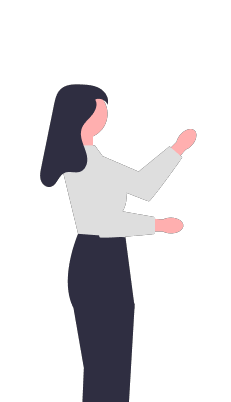
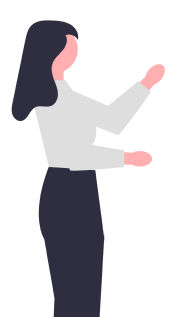
[FIX] 학습하기 CSS 수정

Changed region(s): [[0.0575, 0.0568, 0.9483, 1.0]]

diff --git a/src/Practice/Step1.js b/src/Practice/Step1.js
@@ -13,29 +13,31 @@ function Step1() {
       <ContentsContainer>
         {page === 0 ? (
           <>
-            <CenterContainer>
-              <Bubble>
-                <Info>
-                  카카오 계정이
-                  <Highlight>없다면</Highlight>
-                  이쪽을 선택해주세요!
-                </Info>
-              </Bubble>
-              <Bubble>
-                <Info>
-                  카카오 계정이
-                  <Highlight>있다면</Highlight>
-                  이쪽을 선택해주세요!
-                </Info>
-              </Bubble>
-            </CenterContainer>
-            <CenterContainer>
-              <Icon op="user" />
-              <Icon op="kakao" />
-            </CenterContainer>
-            <CenterContainer>
+            <InfoContainer>
+              <BubbleContainer>
+                <Bubble>
+                  <Info>
+                    카카오 계정이
+                    <Highlight>없다면</Highlight>
+                    이쪽을 선택해주세요!
+                  </Info>
+                </Bubble>
+                <Icon op="user" />
+              </BubbleContainer>
+              <BubbleContainer>
+                <Bubble>
+                  <Info>
+                    카카오 계정이
+                    <Highlight>있다면</Highlight>
+                    이쪽을 선택해주세요!
+                  </Info>
+                </Bubble>
+                <Icon op="kakao" />
+              </BubbleContainer>
+            </InfoContainer>
+            <CharacterContainer>
               <Character />
-            </CenterContainer>
+            </CharacterContainer>
           </>
         ) : page === 1 ? (
           <Explanation
@@ -187,24 +189,27 @@ function Step1() {
 
 const Container = styled.div`
   position: relative;
-  height: 92%;
+  height: 100%;
 `;
 
 const ContentsContainer = styled.div`
   height: 100%;
 `;
 
-const CenterContainer = styled.div`
+const InfoContainer = styled.div`
+  width: 100%;
+  height: 35%;
+
   display: flex;
   justify-content: space-around;
+`;
 
-  padding-top: 3rem;
+const BubbleContainer = styled.div`
+  height: 100%;
+  width: 25%;
 `;
 
 const Bubble = styled.div`
-  width: 17.125rem;
-  height: 9rem;
-
   border-radius: 50%;
   background: #002d61;
   box-shadow: 0px 4px 4px 0px rgba(0, 0, 0, 0.25);
@@ -212,17 +217,34 @@ const Bubble = styled.div`
   display: flex;
   justify-content: center;
   align-items: center;
+
+  height: 80%;
+  width: 100%;
+
+  margin: 0 auto;
+  margin-bottom: 2rem;
+`;
+
+const IconContainer = styled.div`
+  display: flex;
+  justify-content: space-around;
+  align-items: center;
+
+  height: 10%;
 `;
 
 const Icon = styled.div`
-  width: 4.375rem;
-  height: 4.375rem;
+  height: 5rem;
+  width: 5rem;
 
   background-image: ${({ op }) =>
     op === "user"
       ? "url(/images/user_circle.jpg)"
       : "url(/images/kakao_icon.jpg)"};
   background-repeat: no-repeat;
+  background-size: cover;
+
+  margin: 0 auto;
 `;
 
 const Info = styled.div`
@@ -240,12 +262,20 @@ const Highlight = styled.div`
   color: #fbff45;
 `;
 
+const CharacterContainer = styled.div`
+  height: 65%;
+  width: 100%;
+
+  margin: 0 auto;
+`;
+
 const Character = styled.div`
-  width: 42.375rem;
-  height: 23.125rem;
+  height: 100%;
+  width: 100%;
 
   background-image: url("/images/character.png");
   background-repeat: no-repeat;
+  background-size: contain;
 `;
 
 const NextBtn = styled.div`

diff --git a/src/Practice/Explanation.js b/src/Practice/Explanation.js
@@ -14,7 +14,7 @@ function Explanation(props) {
       <ExplainContainer none={props.none}>
         <CenterContainer>
           <TutorContainer opacity={props.opacity}>
-            <BubbleContainer op="1">
+            <BubbleContainer op="1" none={props.none}>
               <InfoContainer op="1">
                 {props.info1}
                 <br /> {props.info2}
@@ -42,8 +42,7 @@ function Explanation(props) {
 }
 
 const Img = styled.img`
-  width: 48rem;
-  height: 30rem;
+  width: 70%;
 
   position: absolute;
 
@@ -54,8 +53,8 @@ const Img = styled.img`
 `;
 
 const ComponentContainer = styled.div`
-  width: 48rem;
-  height: 30rem;
+  width: 50%;
+  height: 70%;
 
   position: absolute;
 
@@ -88,18 +87,19 @@ const ExplainContainer = styled.div`
   bottom: 0;
   z-index: 1;
 
-  width: ${({ none }) => (none === "1" ? "auto" : "100%")};
+  width: ${({ none }) => (none === "1" ? "35%" : "100%")};
+  height: 100%;
 `;
 
 const BubbleContainer = styled.div`
-  width: ${({ op }) => (op === "1" ? " 22rem" : "24rem")};
-  height: ${({ op }) => (op === "1" ? " 12rem" : "15.5rem")};
+  width: ${({ none }) => (none === "1" ? "auto" : "70%")};
+  height: ${({ op }) => (op === "1" ? "30%" : "40%")};
 
   background-image: ${({ op }) =>
     op === "1" ? " url(/images/bubble.png)" : "url(/images/bubble2.png)"};
   background-repeat: no-repeat;
-  background-position: top center;
-  background-size: cover;
+  background-position: center center;
+  background-size: contain;
 
   color: ${({ op }) => (op === "1" ? " #fff" : "#002d61")};
   text-align: center;
@@ -118,26 +118,30 @@ const InfoContainer = styled.div`
 `;
 
 const Tutor = styled.div`
-  width: 15rem;
-  height: 30.40406rem;
+  height: 60%;
 
   background-image: ${({ op }) =>
     op === "1" ? " url(/images/tutor.png)" : "url(/images/tutor2.png)"};
   background-repeat: no-repeat;
+  background-size: contain;
 
   margin-left: ${({ op }) => (op === "1" ? " 0" : "13rem")};
 `;
 
 const CenterContainer = styled.div`
-  width: 100%;
   display: flex;
   justify-content: space-between;
   align-items: end;
+
+  height: 100%;
 `;
 
 const TutorContainer = styled.div`
   display: ${({ none }) => (none === "1" ? "none" : "block")};
   opacity: ${({ opacity }) => (opacity === "1" ? "0.4" : "1")};
+
+  height: 100%;
+  width: 100%;
 `;
 
 export default Explanation;

diff --git a/src/Practice/Log.js b/src/Practice/Log.js
@@ -120,17 +120,17 @@ const Container = styled.div`
 `;
 
 const ItemsContainer = styled.div`
-  height: 87%;
-  width: 80%;
-
-  margin: 0 auto;
-  padding-top: 2rem;
+  height: 100%;
+  width: 100%;
 `;
 
 const StepContainer = styled.div`
+  width: 100%;
+  height: 13%;
+
   display: flex;
 
-  margin-left: ${({ step }) =>
+  /* padding-left: ${({ step }) =>
     step === "0" || step === "4"
       ? "50%"
       : step === "1" || step === "3"
@@ -139,16 +139,17 @@ const StepContainer = styled.div`
       ? "10%"
       : "auto"};
 
-  margin-right: ${({ step }) =>
+  padding-right: ${({ step }) =>
     step === "5" ? "10%" : step === "6" ? "30%" : "auto"};
 
   justify-content: ${({ step }) =>
-    step === "5" || step === "6" ? "right" : "auto"};
+    step === "5" || step === "6" ? "right" : "auto"}; */
+  justify-content: center;
 `;
 
 const Step = styled.div`
-  width: 12.5rem;
-  height: 7.5rem;
+  width: 20%;
+  height: 100%;
 
   color: #002d61;
   display: flex;
@@ -190,6 +191,7 @@ const Info = styled.div`
 `;
 
 const BtnContainer = styled.div`
+  height: 9%;
   display: flex;
   justify-content: right;
 

diff --git a/src/Practice/StatusBar.js b/src/Practice/StatusBar.js
@@ -15,15 +15,15 @@ function StatusBar(props) {
 }
 
 const Container = styled.div`
-  width: 75rem;
+  width: 100%;
   height: 8%;
   display: flex;
-
-  margin: 0 auto;
+  justify-content: center;
 `;
 
 const ItemsContainer = styled.div`
   position: relative;
+  width: 90%;
 `;
 
 const Title = styled.div`
@@ -38,13 +38,13 @@ const Title = styled.div`
 `;
 
 const BarContainer = styled.div`
-  width: 67rem;
+  width: 80%;
   position: relative;
   margin: 0 auto;
 `;
 
 const Bar = styled.div`
-  width: 63rem;
+  width: 98%;
   height: 1.5625rem;
 
   border-radius: 0.9375rem;
@@ -56,7 +56,7 @@ const Bar = styled.div`
 `;
 
 const Status = styled.div`
-  width: ${({ step }) => step * 9}rem;
+  width: ${({ step }) => step * 14}%;
   height: 1.5625rem;
 
   border-radius: 0.9375rem;

diff --git a/src/Practice/Exercise.js b/src/Practice/Exercise.js
@@ -26,22 +26,23 @@ function Exercise() {
 }
 
 const Container = styled.div`
-  padding: 10rem 5% 0 5%;
-  height: 100%;
+  height: 100vh;
+  width: 100vw;
 `;
 
 const ItemsContainer = styled.div`
+  padding-top: 10rem;
   display: flex;
   justify-content: center;
 `;
 
 const ContentsContainer = styled.div`
-  width: 80%;
+  width: 75%;
 `;
 
 const Contents = styled.div`
-  width: 70rem;
-  height: 100%;
+  width: 100%;
+  height: 92%;
 
   margin: 0 auto;
 `;

diff --git a/src/Practice/PracticeMenu.js b/src/Practice/PracticeMenu.js
@@ -150,8 +150,7 @@ function PracticeMenu(props) {
 }
 
 const Container = styled.div`
-  width: 16rem;
-  height: 48rem;
+  width: 15%;
 
   border-radius: 0.75rem;
   border: 1px solid #dee2e6;

diff --git a/src/Practice/Step0.js b/src/Practice/Step0.js
@@ -34,7 +34,7 @@ function Step0() {
 
 const Container = styled.div`
   position: relative;
-  height: 92%;
+  height: 100%;
 `;
 
 const ContentsContainer = styled.div`
